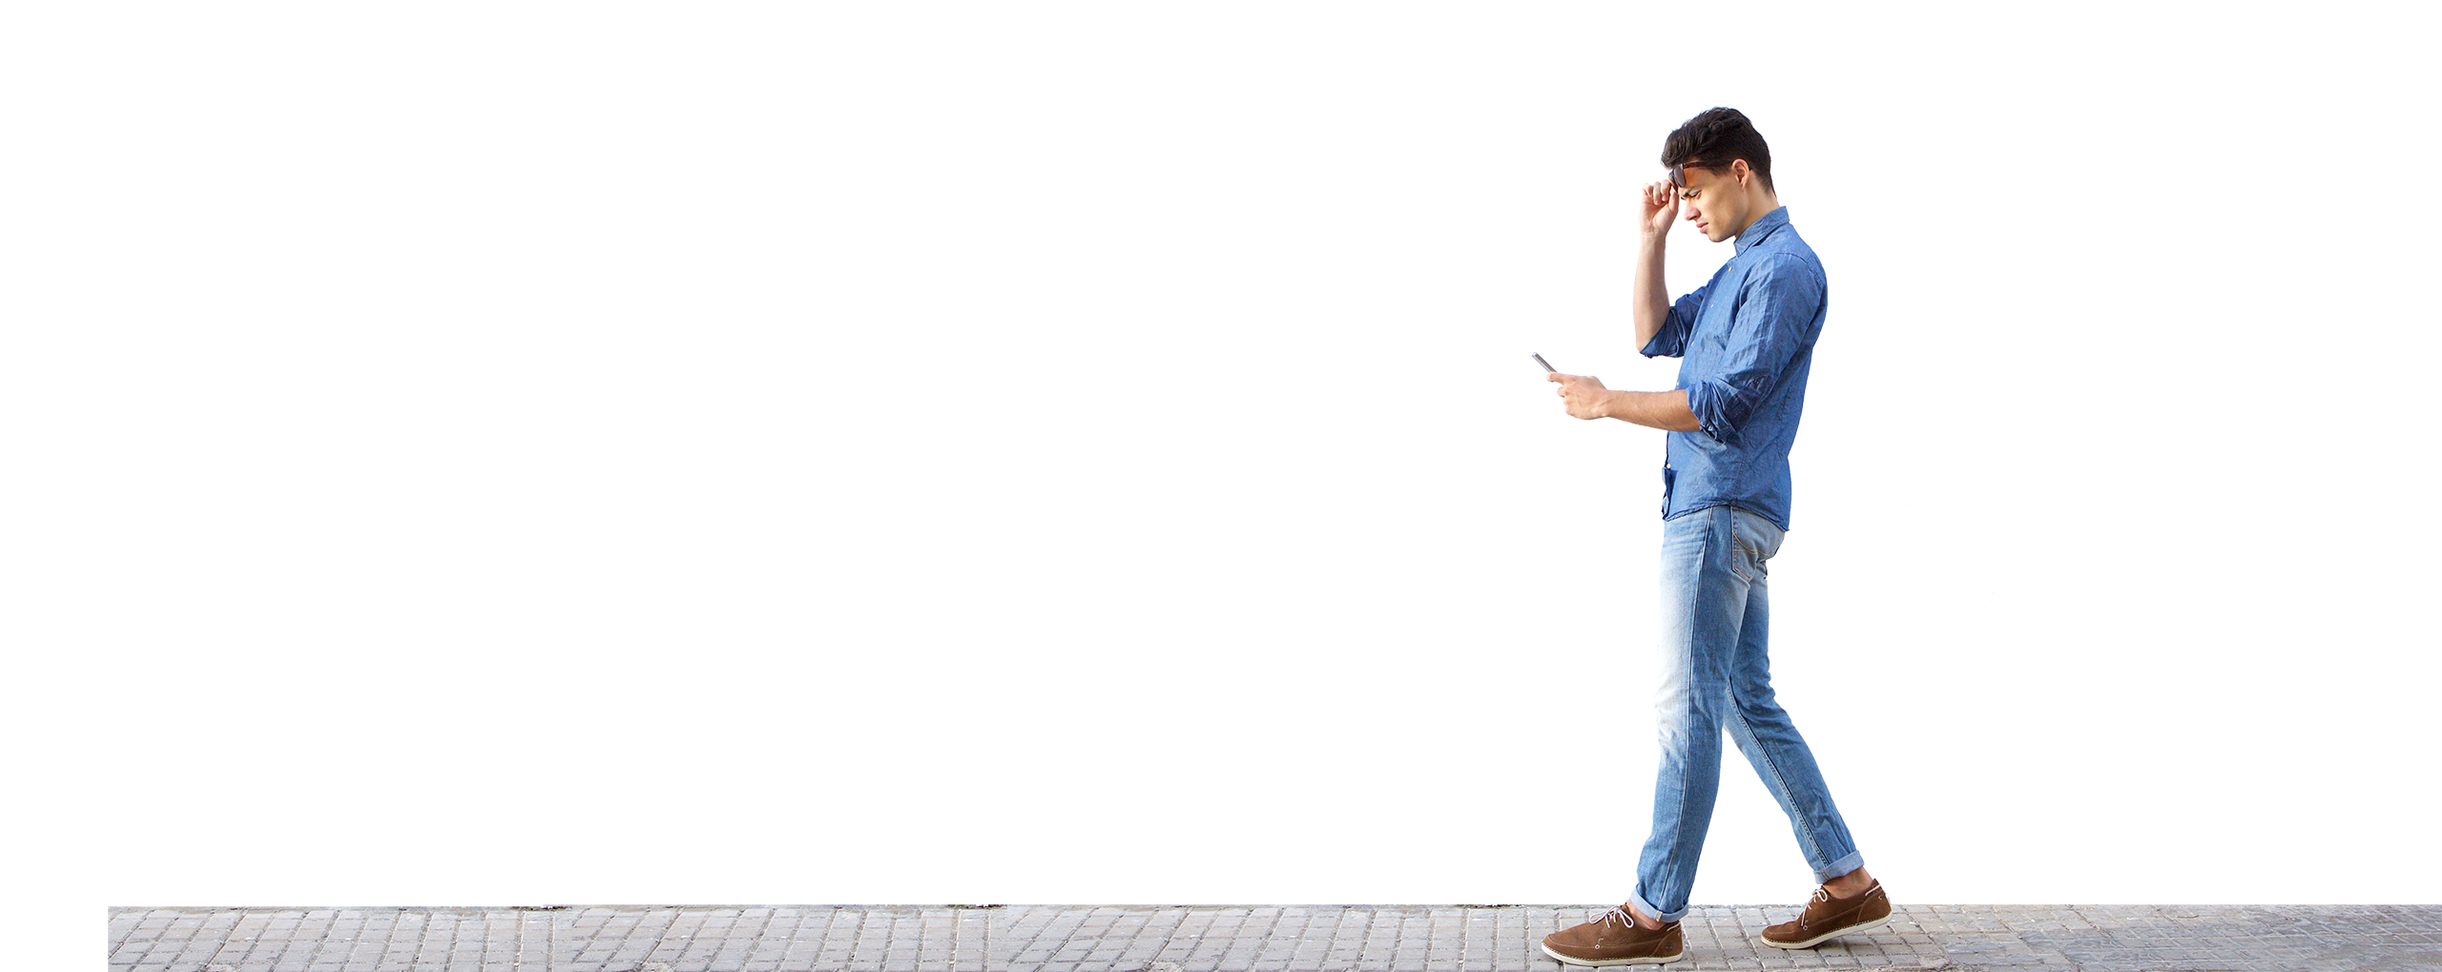
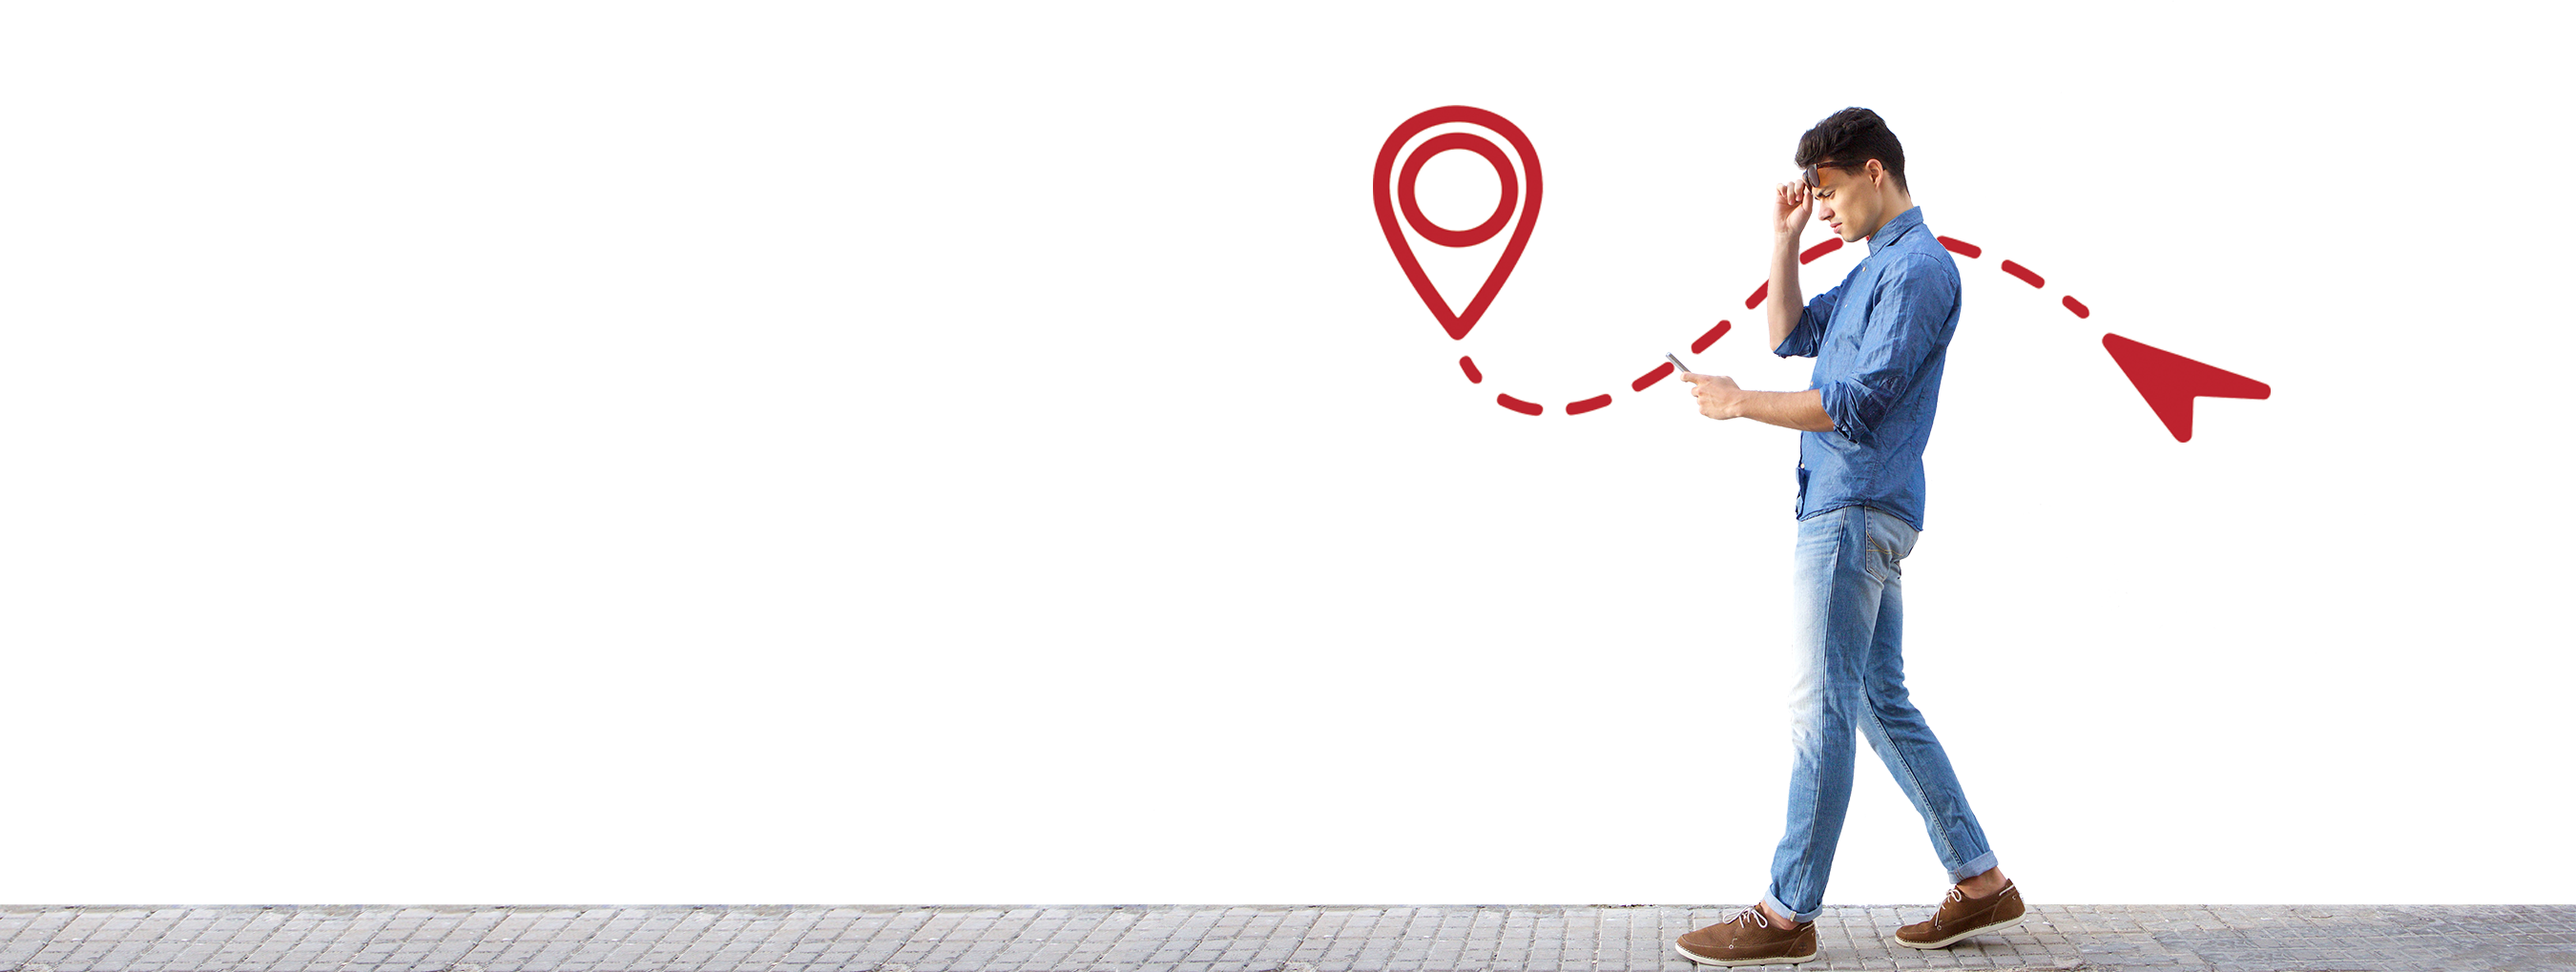
NAV in place, and responsiveness corrected.

Changed region(s): [[0.0, 0.0913, 1.0, 1.0], [0.8125, 0.3346, 0.9062, 0.4563]]

diff --git a/index.html b/index.html
@@ -21,6 +21,7 @@
     <link href="css/jumbotron.css" rel="stylesheet">
     <!-- Custom styles for this template -->
     <link href="css/wadat.css" rel="stylesheet">
+    <link href="https://fonts.googleapis.com/css?family=Roboto+Condensed" rel="stylesheet"> 
 
     <!-- Just for debugging purposes. Don't actually copy these 2 lines! -->
     <!--[if lt IE 9]><script src="../../assets/js/ie8-responsive-file-warning.js"></script><![endif]-->
@@ -35,60 +36,93 @@
 
   <body>
 
-    <nav class="navbar navbar-inverse navbar-fixed-top">
+     <nav class="nav navbar-inverse" role="navigation">
       <div class="container">
-        <div class="navbar-header">
-          <button type="button" class="navbar-toggle collapsed" data-toggle="collapse" data-target="#navbar" aria-expanded="false" aria-controls="navbar">
+        <div class="navbar-header container-fluid">
+         <a class="navbar-wadat" href="index.html"><img src="assets/WADAT-logo-color.png"></a>
+          <div><button type="button" class="navbar-toggle collapsed" data-toggle="collapse" data-target="#navbar" aria-expanded="false" aria-controls="navbar">
             <span class="sr-only">Toggle navigation</span>
             <span class="icon-bar"></span>
             <span class="icon-bar"></span>
             <span class="icon-bar"></span>
-          </button>
-          <a class="navbar-brand" href="#">Project name</a>
+          </button></div>
+         
         </div>
+     
         <div id="navbar" class="navbar-collapse collapse">
-          <form class="navbar-form navbar-right">
-            <div class="form-group">
+           
+           <ul class = "nav navbar-nav">
+             <li class = "active"><a href="#">FEATURES</a></li>
+             <li class="nav-item"><a href="#">GET STARTED</a></li>
+		     <li class="nav-item"><a href="#">ABOUT US</a></li>
+             <li class="nav-item"><a href="#">CONTACT US</a></li>
+		     <li class="navbar-form">	<form >
+            <!--<div class="form-group">
               <input type="text" placeholder="Email" class="form-control">
             </div>
             <div class="form-group">
               <input type="password" placeholder="Password" class="form-control">
-            </div>
-            <button type="submit" class="btn btn-success">Sign in</button>
-          </form>
+            </div>-->
+            <button type="submit" class="btn btn-success">LOGIN</button>
+          </form></li>
+          </ul>
+          
         </div><!--/.navbar-collapse -->
       </div>
     </nav>
+      
 
     <!-- Main jumbotron for a primary marketing message or call to action -->
   <section class="top">
     <div class="jumbotron">
       <div class="container">
-        <h1>Hello, world!</h1>
-        <p>This is a template for a simple marketing or informational website. It includes a large callout called a jumbotron and three supporting pieces of content. Use it as a starting point to create something more unique.</p>
-        <p><a class="btn btn-primary btn-lg" href="#" role="button">Learn more &raquo;</a></p>
+        <div class="row">
+          <div class="col-md-6">
+            <h1>CURRENTLY AVAILABLE IN THE SARASOTA AND BRANDENTON AREAS IN FLORIDA.</h1>
+        
+            <p><a class="btn btn-primary btn-lg" href="#" role="button">Learn more &raquo;</a></p>
+          </div>
+        </div>
       </div>
     </div>
   </section>
   
   <section class="middle">
-    <div class="container">
-      <!-- Example row of columns -->
-      <div class="row">
-        <div class="col-md-4">
-          <h2>Heading</h2>
-          <p>Donec id elit non mi porta gravida at eget metus. Fusce dapibus, tellus ac cursus commodo, tortor mauris condimentum nibh, ut fermentum massa justo sit amet risus. Etiam porta sem malesuada magna mollis euismod. Donec sed odio dui. </p>
-          <p><a class="btn btn-default" href="#" role="button">View details &raquo;</a></p>
+    <div class="middle">
+      <div class="container">
+        <!-- FEATURES -->
+        <div class="row">
+          <div class="col-md-4">
+            <h2>FLEXIBLE</h2>
+            <p>Track kids, pets, employees, vehicles, equipment, inventory, company assets, etc.</p>
+            <!--<p><a class="btn btn-default" href="#" role="button">View details &raquo;</a></p>-->
+          </div>
+          <div class="col-md-4">
+            <h2>LOW COST</h2>
+            <p>Only $1 per month per sensor </p>
+           
+         </div>
+          <div class="col-md-4">
+            <h2>DISTANCE TRAVELED</h2>
+            <p>Get notified when a sensor travels more than a specified distance.</p>
+            
+          </div>
         </div>
-        <div class="col-md-4">
-          <h2>Heading</h2>
-          <p>Donec id elit non mi porta gravida at eget metus. Fusce dapibus, tellus ac cursus commodo, tortor mauris condimentum nibh, ut fermentum massa justo sit amet risus. Etiam porta sem malesuada magna mollis euismod. Donec sed odio dui. </p>
-          <p><a class="btn btn-default" href="#" role="button">View details &raquo;</a></p>
-       </div>
-        <div class="col-md-4">
-          <h2>Heading</h2>
-          <p>Donec sed odio dui. Cras justo odio, dapibus ac facilisis in, egestas eget quam. Vestibulum id ligula porta felis euismod semper. Fusce dapibus, tellus ac cursus commodo, tortor mauris condimentum nibh, ut fermentum massa justo sit amet risus.</p>
-          <p><a class="btn btn-default" href="#" role="button">View details &raquo;</a></p>
+        <div class="row">
+          <div class="col-md-4">
+            <h2>SECURE</h2>
+            <p>All credit card transactions are processed by Amazon.com</p>
+            
+          </div>
+          <div class="col-md-4">
+            <h2>EASY TO USE</h2>
+            <p>Use this website or our Free Mobile App (iOS and Android) to track your sensors.</p>
+         
+         </div>
+          <div class="col-md-4">
+            <h2>DISTANCE TRAVELED</h2>
+            <p>Get notified when a sensor travels more than a specified distance.</p>
+          </div>
         </div>
       </div>
   </section>
@@ -104,9 +138,9 @@
     ================================================== -->
     <!-- Placed at the end of the document so the pages load faster -->
     <script src="https://ajax.googleapis.com/ajax/libs/jquery/1.12.4/jquery.min.js"></script>
-    <script>window.jQuery || document.write('<script src="../../assets/js/vendor/jquery.min.js"><\/script>')</script>
-    <script src="../../dist/js/bootstrap.min.js"></script>
+    <script>window.jQuery || document.write('<script src="assets/js/vendor/jquery.min.js"><\/script>')</script>
+    <script src="js/bootstrap.min.js"></script>
     <!-- IE10 viewport hack for Surface/desktop Windows 8 bug -->
-    <script src="../../assets/js/ie10-viewport-bug-workaround.js"></script>
+    <script src="assets/js/ie10-viewport-bug-workaround.js"></script>
   </body>
 </html>

diff --git a/css/wadat.css b/css/wadat.css
@@ -1,17 +1,110 @@
 @charset "UTF-8";
 /* CSS Document */
+/*Fonts*/
+a, .navbar-inverse .navbar-nav > li > a {
+  color:#68c1e5;
+}
+p, h1, h2, h3, h4, h5, h6 {
+  font-family: 'Roboto Condensed', sans-serif;
+  font-weight: 600;
+  color: #01374c;
+}
+p {
+  font-weight: normal;
+  color: #555655;
+}
+.jumbotron h1 {
+  color: #fff;
+  text-shadow: 1px 2px 2px #999;
+}
+.btn-success, .navbar-inverse .navbar-toggle  {
+  background-color: #daf1f7;
+  border-color: #daf1f7;
+  color: #04384d;
+}
+.navbar-inverse .navbar-toggle .icon-bar {
+  background-color: #04384d;
+}
+.navbar-inverse .navbar-toggle .icon-bar:hover {
+  background-color: #daf1f7;
+}
+.btn-success:hover, .navbar-inverse .navbar-toggle:hover, .btn-success.active.focus,.btn-success.active:focus,.btn-success.active:hover,.btn-success:active.focus,.btn-success:active:focus,.btn-success:active:hover,.open>.dropdown-toggle.btn-success.focus,.open>.dropdown-toggle.btn-success:focus,.open>.dropdown-toggle.btn-success:hover {
+  background-color: #68c1e5;
+  border-color: #daf1f7;
+  color: #fff;
+}
+.navbar-inverse .navbar-nav > .active > a, .navbar-inverse .navbar-nav > .active > a:focus, .navbar-inverse .navbar-nav > .active > a:hover {
+  background-color: transparent;
+}
+.navbar-nav, .navbar-inverse .navbar-toggle  {
+  float: right;
+  margin-top: 20px;
+  margin-right: 0px;
+  margin-left: 0px;
+}
+.navbar-nav ul {
+   padding-top: 20px;
+}
 
+.navbar-inverse {
+  background-color: #04384d;
+}
+.navbar-wadat {
+  color: #fff;
+  padding-top: 5px;
+  float:left;
+  max-width: 300px;
+  margin: 0 auto;
+}
+
+.navbar-wadat img {
+  width: 90%;
+  }
+.middle {
+  background-color: #333;
+  background-image: url('../assets/clouds.png');
+  background-position: top;
+  background-attachment: fixed;
+}
+.middle .container {
+  min-height: 400px;
+}
 .jumbotron .container {
-  background-image: url('../assets/man-walking-with-phone.png');
-   background-repeat: no-repeat;
-   background-height: 50%;
+  min-height: 500px;
 }
 .jumbotron {
   background-color: transparent;
-  background-image: url('../assets/top-map-bkg.png');
+  background-image: url('../assets/man-walking-with-phone.png'), url('../assets/top-map-bkg.png');
   background-repeat: no-repeat;
   background-position: center;
   background-size: cover;
-  background-attachment: fixed;
-  min-height: 700px;
+  min-height: 500px;
+  margin-bottom: 0px;
+}
+@media only screen and (max-width:768px) {
+    .navbar-nav {
+      float:left;
+    }
+	.navbar-form {
+	  padding-left: 30px;
+	}
+	.nav .navbar-nav ul {
+	  width: 100%;
+	}
+	  .navbar-nav {
+    width: 100%;
+    text-align: right;
+    > li {
+      float: none;
+      display: inline-block;
+    }
+  }
+}
+@media only screen and (max-width: 480px) {
+	.navbar-header {
+	  width: 100%;
+	}
+
+    
+   
 }
